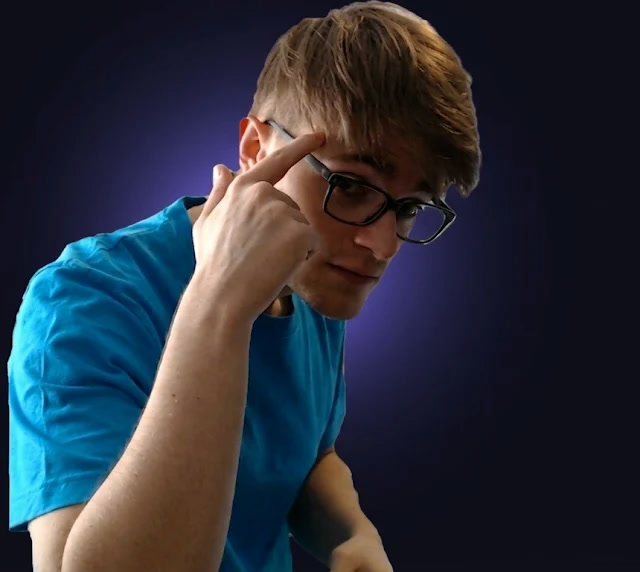
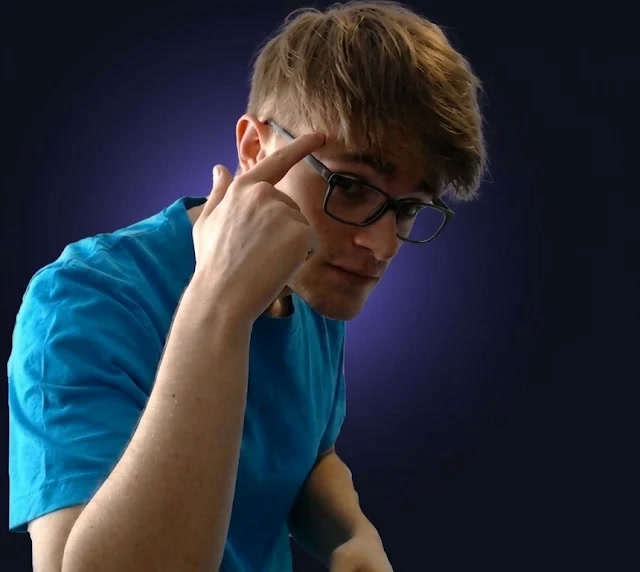
Hero photo: natural hair edges (Gemini edge fix)

diff --git a/index.html b/index.html
@@ -81,7 +81,7 @@
   figcaption b { color: var(--text); }
   kbd { background: #241d31; border: 1px solid var(--line); border-bottom-width: 2px; border-radius: 5px; padding: 1px 7px; font: 600 13px Inter, sans-serif; color: var(--text); }
   .navcta { margin-left: 6px; padding: 7px 12px; color: #fff !important; }
-  header.hero { position: relative; overflow: hidden; padding: 0; background: #0e0e19; border-bottom: 1px solid var(--line); }
+  header.hero { position: relative; overflow: hidden; padding: 0; background: #0e111e; border-bottom: 1px solid var(--line); }
   .hero .wrap { position: relative; min-height: 560px; display: flex; align-items: center; }
   .hero-photo { position: absolute; left: calc(50% - 720px); bottom: 0; height: 100%; pointer-events: none; }
   .hero-photo img { height: 100%; width: auto; max-width: 47vw; object-fit: cover; object-position: left bottom; display: block;
